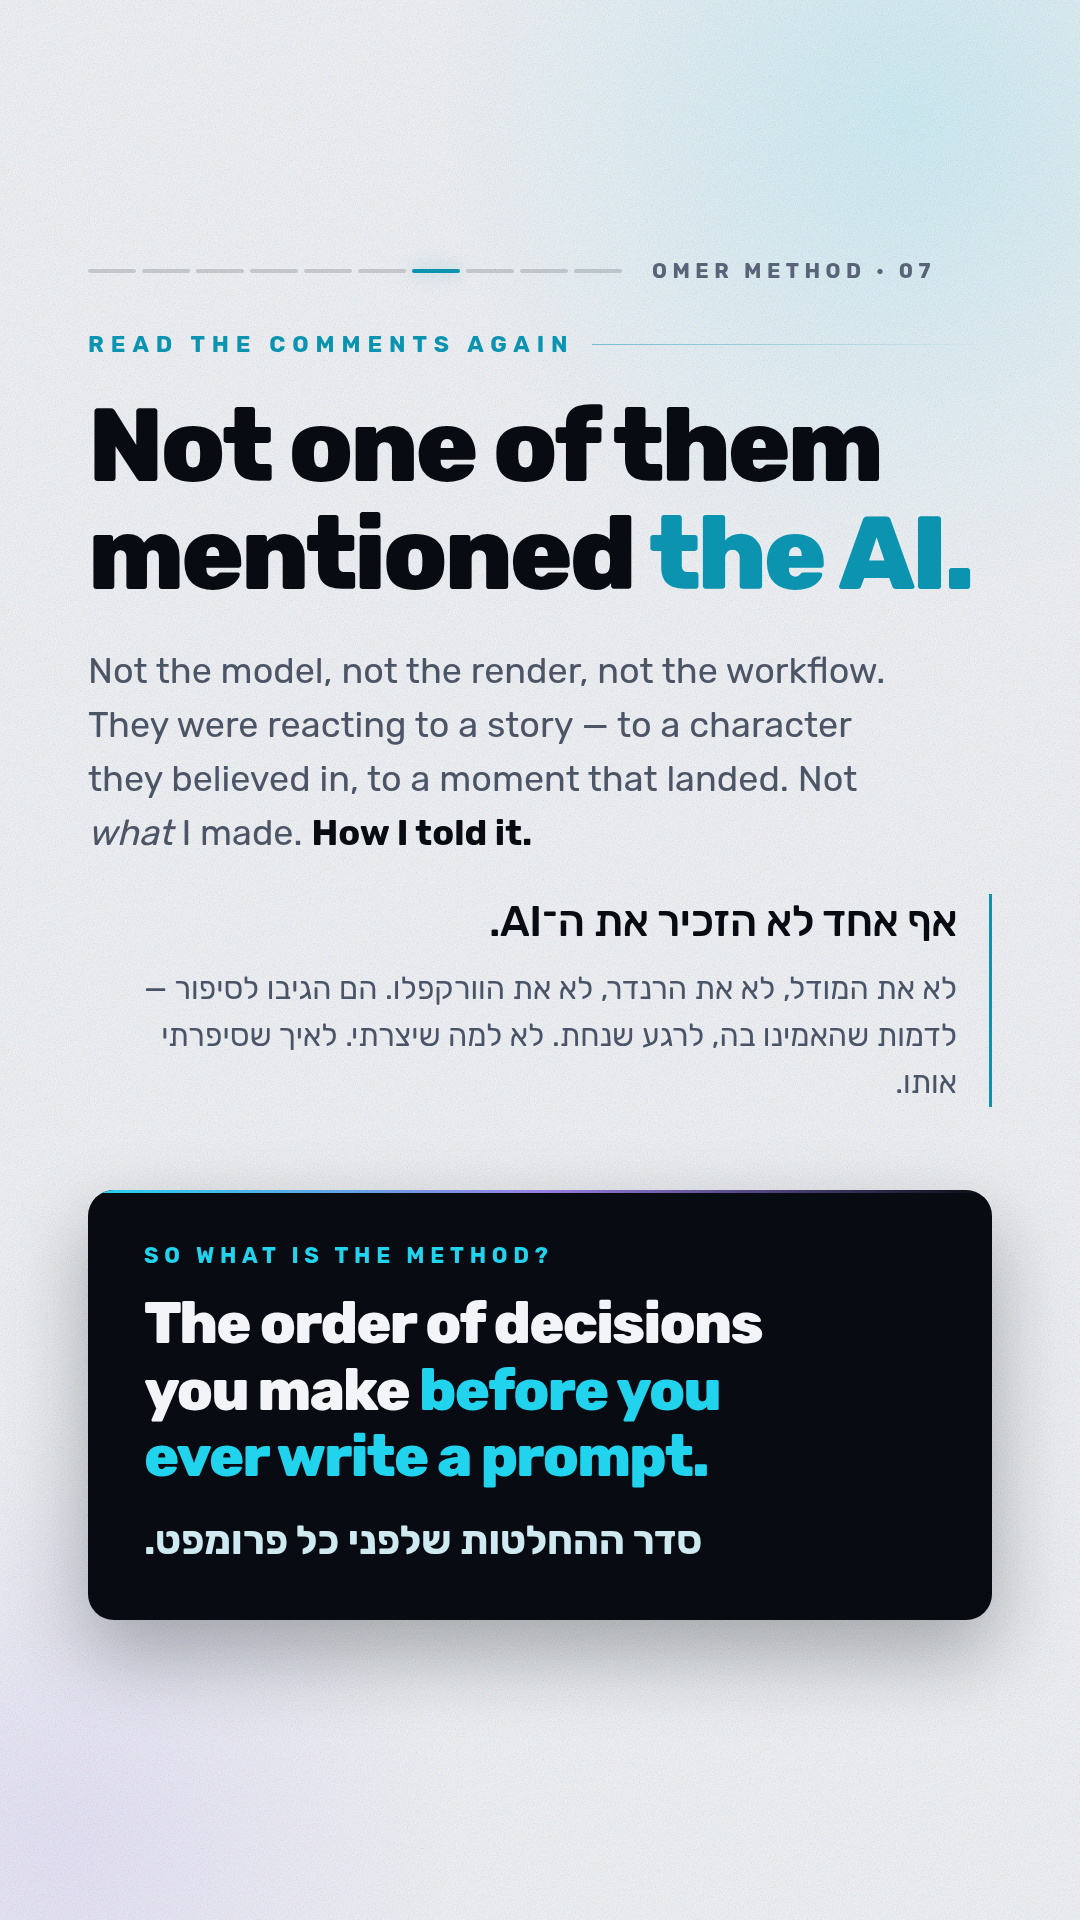
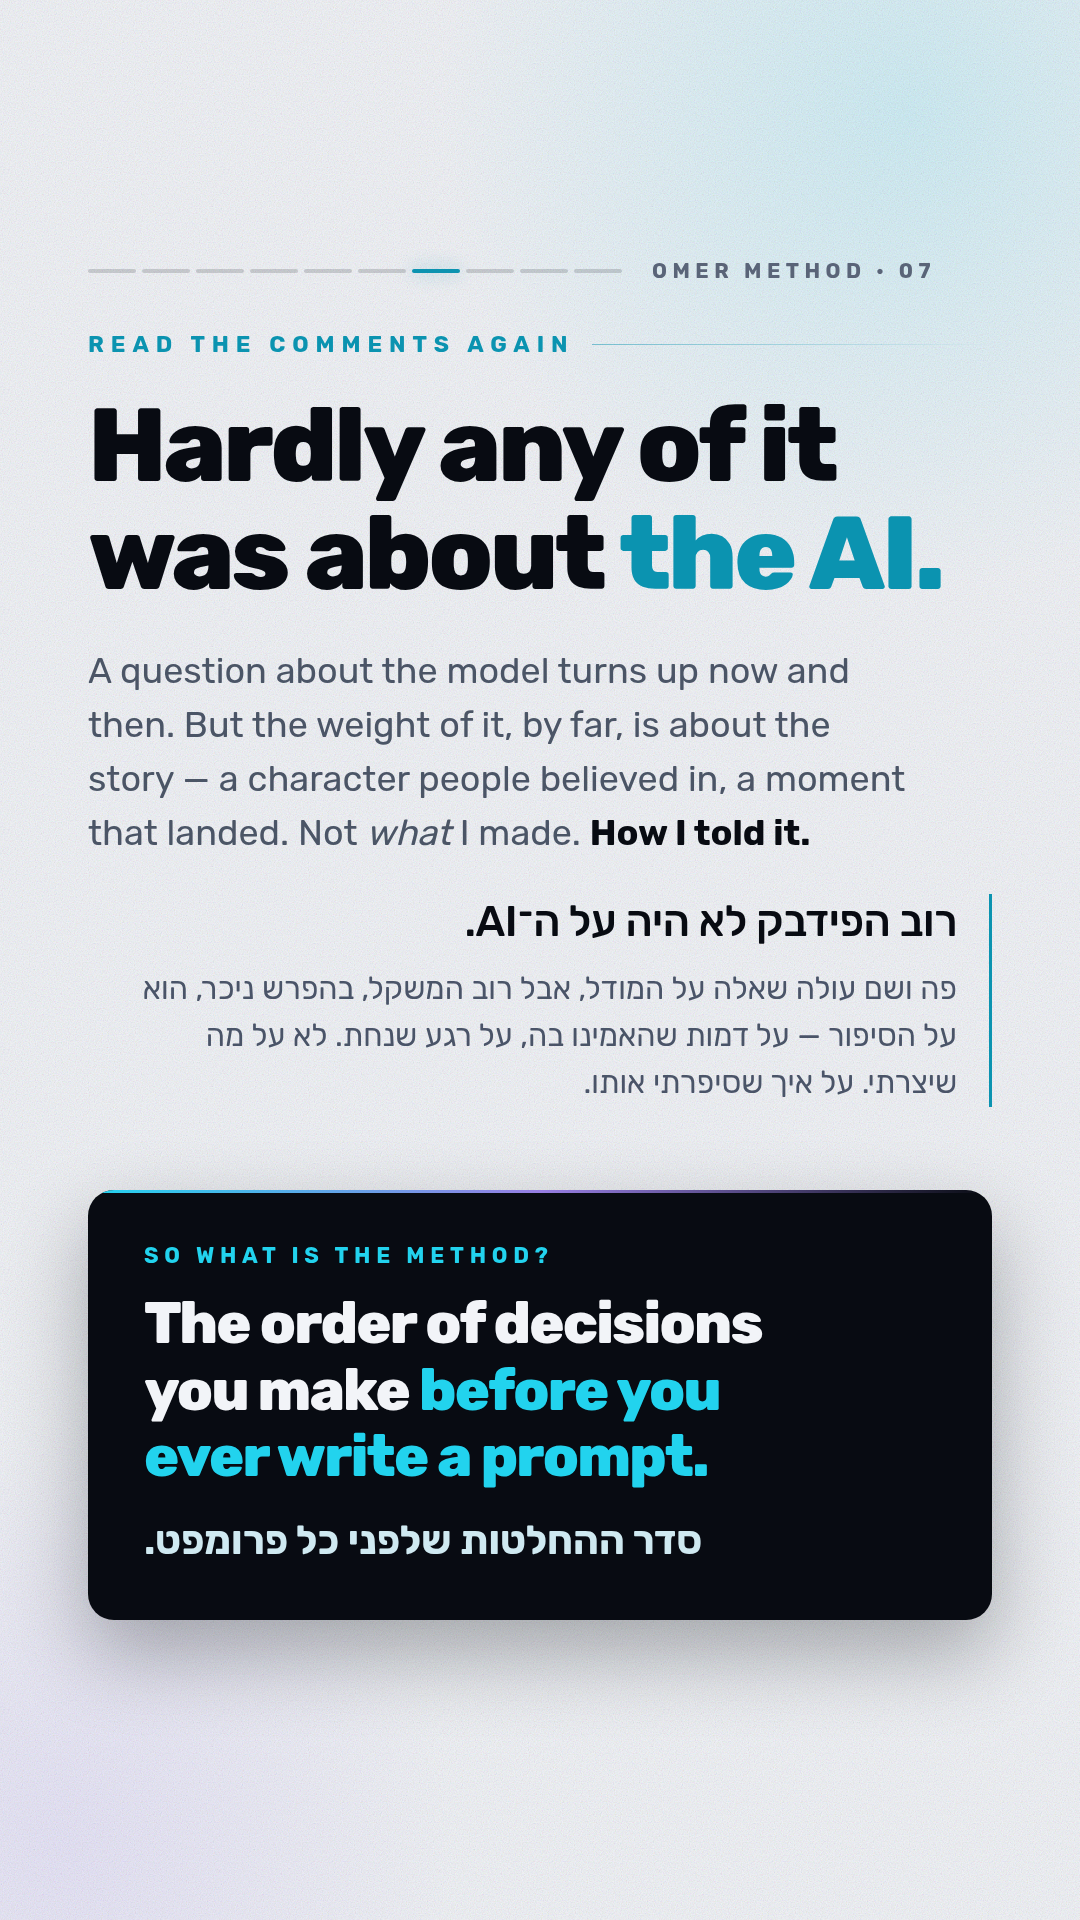
Replace the absolute claims with a proportion
The copy said nobody had ever asked which model and that not one comment
mentioned the AI. One screenshot of somebody asking would sink that, and
the claim was never the interesting one anyway.

What is actually true, and stronger: the weight of the response was on
the story rather than on the tools. The copy now says so as a proportion
across both the stories and the carousel — "hardly any of it", "a
rounding error", "now and then someone asks" — which is harder to argue
with and is what the comment evidence actually shows.

Story frame 05 stopped fitting once the longer wording went in; its lead
is back to two lines and the Hebrew deck is trimmed.

Claude-Session: https://claude.ai/code/session_0113ue75zsKk6knXSw8ei82D

Changed region(s): [[0.0611, 0.1875, 0.9167, 0.3125], [0.0917, 0.3438, 0.825, 0.4375], [0.1528, 0.4688, 0.8861, 0.5938]]

diff --git a/omer-method-launch/03-carousel/carousel.html b/omer-method-launch/03-carousel/carousel.html
@@ -161,11 +161,11 @@ body{background:#14171d;font-family:Rubik,sans-serif;-webkit-font-smoothing:anti
   <div class="pad">
     <div class="over">The question I keep getting</div>
     <div class="grow"></div>
-    <div class="en lead xl">Nobody asks<br>which tool.<br>They ask <span class="cy">how.</span></div>
-    <div class="deck" style="margin-top:30px">It took me a long time to hear the difference. Nobody has ever asked me which model or which software — they ask <b>how</b>. They can feel there is a way of thinking behind it. They just cannot name it.</div>
+    <div class="en lead xl">They rarely ask<br>which tool.<br>They ask <span class="cy">how.</span></div>
+    <div class="deck" style="margin-top:30px">It took me a long time to hear the difference. A question about software comes up now and then, but it is never where people stay — what they are really asking is <b>how</b>. They can feel there is a way of thinking behind it. They just cannot name it.</div>
     <div class="he-block" style="margin-top:30px">
-      <div class="he-line">לא שואלים באיזה כלי.<br>שואלים איך.</div>
-      <div class="he-deck">לקח לי הרבה זמן לשמוע את ההבדל. אף אחד לא שאל אותי באיזה מודל או באיזו תוכנה — שואלים <bdi>איך</bdi>. הם מרגישים שיש מאחורי זה דרך חשיבה. הם פשוט לא יודעים לקרוא לה בשם.</div>
+      <div class="he-line">כמעט לא שואלים באיזה כלי.<br>שואלים איך.</div>
+      <div class="he-deck">לקח לי הרבה זמן לשמוע את ההבדל. פה ושם עולה שאלה על תוכנה, אבל שם אף אחד לא נשאר — מה שבאמת שואלים זה <bdi>איך</bdi>. הם מרגישים שיש מאחורי זה דרך חשיבה, הם פשוט לא יודעים לקרוא לה בשם.</div>
     </div>
     <div class="grow"></div>
   </div>
@@ -219,8 +219,8 @@ body{background:#14171d;font-family:Rubik,sans-serif;-webkit-font-smoothing:anti
   <div class="grain"></div><div class="vig"></div>
   <div class="pad">
     <div class="over">The comments</div>
-    <div class="en lead sm" style="margin-top:24px">Thousands of them.<br><span class="cy">None about the tools.</span></div>
-    <div class="deck" style="margin-top:24px;font-size:30px">On videos made entirely with AI, nobody asked which model I used. They wrote about a character, a song, a country.</div>
+    <div class="en lead sm" style="margin-top:24px">Thousands of them.<br>Almost none about<br><span class="cy">the tools.</span></div>
+    <div class="deck" style="margin-top:24px;font-size:30px">Now and then someone asks about the model. But that is a rounding error next to the rest of it — people wrote about a character, a song, a country.</div>
     <div class="mon" style="margin-top:34px">
       <div class="big">889</div>
       <div><div class="a">likes</div><div class="b">on a single comment</div></div>
@@ -232,8 +232,8 @@ body{background:#14171d;font-family:Rubik,sans-serif;-webkit-font-smoothing:anti
     </div>
     <div class="grow" style="max-height:40px"></div>
     <div class="he-block">
-      <div class="he-line sm">אלפי תגובות. אף אחת על הכלים.</div>
-      <div class="he-deck">אף אחד לא שאל באיזה מודל השתמשתי. הם כתבו על דמות, על שיר, על מדינה.</div>
+      <div class="he-line sm">אלפי תגובות. כמעט אף אחת על הכלים.</div>
+      <div class="he-deck">פה ושם שואלים על המודל, אבל זה שוליים לעומת כל השאר — כתבו על דמות, על שיר, על מדינה.</div>
     </div>
   </div>
   <div class="num">05 / 09</div>
@@ -244,11 +244,11 @@ body{background:#14171d;font-family:Rubik,sans-serif;-webkit-font-smoothing:anti
   <div class="grain" style="opacity:.07"></div>
   <div class="pad">
     <div class="over">Read them again</div>
-    <div class="en lead" style="margin-top:26px">Not one of them<br>mentioned <span style="color:var(--cy-deep)">the AI.</span></div>
-    <div class="deck" style="margin-top:26px">Not the model, not the render, not the workflow. They were reacting to a story — to a character they believed in, to a moment that landed. Not <i>what</i> I made. <b>How I told it.</b></div>
+    <div class="en lead" style="margin-top:26px">Hardly any of it<br>was about <span style="color:var(--cy-deep)">the AI.</span></div>
+    <div class="deck" style="margin-top:26px">A question about the model turns up now and then. But the weight of it, by far, is about the story — a character people believed in, a moment that landed. Not <i>what</i> I made. <b>How I told it.</b></div>
     <div class="he-block" style="margin-top:26px">
-      <div class="he-line sm">אף אחד לא הזכיר את ה־<bdi>AI</bdi>.</div>
-      <div class="he-deck">לא את המודל, לא את הרנדר, לא את הוורקפלו. הם הגיבו לסיפור — לדמות שהאמינו בה, לרגע שנחת. לא למה שיצרתי. לאיך שסיפרתי אותו.</div>
+      <div class="he-line sm">רוב הפידבק לא היה על ה־<bdi>AI</bdi>.</div>
+      <div class="he-deck">פה ושם עולה שאלה על המודל, אבל רוב המשקל, בהפרש ניכר, הוא על הסיפור — על דמות שהאמינו בה, על רגע שנחת. לא על מה שיצרתי. על איך שסיפרתי אותו.</div>
     </div>
     <div class="grow"></div>
     <div class="card">

diff --git a/omer-method-launch/01-stories/frames.html b/omer-method-launch/01-stories/frames.html
@@ -488,10 +488,10 @@ body{background:#14171d;font-family:Rubik,sans-serif;-webkit-font-smoothing:anti
 
   <div class="pad">
     <div class="over">The comments</div>
-    <div class="lead md" style="margin-top:26px">Thousands of them.<br><span class="cy">None about the tools.</span></div>
-    <div class="deck" style="margin-top:28px;max-width:850px;font-size:34px">On videos made entirely with AI, nobody asked
-      which model I used. They wrote about a character, a song, a country. One comment picked up more
-      likes on its own than most posts get.</div>
+    <div class="lead md" style="margin-top:26px">Thousands of them.<br>Almost none <span class="cy">about the tools.</span></div>
+    <div class="deck" style="margin-top:28px;max-width:850px;font-size:34px">Now and then someone asks about the model. But that is a rounding error next to the rest of it —
+      people wrote about a character, a song, a country. One comment picked up more likes on its own
+      than most posts get.</div>
 
     <div class="mon" style="margin-top:40px">
       <div class="big">889</div>
@@ -504,8 +504,8 @@ body{background:#14171d;font-family:Rubik,sans-serif;-webkit-font-smoothing:anti
       <div><span class="n">934</span><span class="l">comments from Facebook alone</span></div>
     </div>
 
-    <div class="grow" style="max-height:120px"></div>
-    <div class="he-block" style="margin-top:34px"><div class="he-line sm">אלפי תגובות. אף אחת על הכלים.</div><div class="he-deck tight">על סרטונים שנוצרו כולם ב־<bdi>AI</bdi>, אף אחד לא שאל באיזה מודל השתמשתי. הם כתבו על דמות, על שיר, על מדינה. תגובה אחת אספה לבדה יותר לייקים ממה שרוב הפוסטים מקבלים.</div></div>
+    <div class="grow" style="max-height:52px"></div>
+    <div class="he-block" style="margin-top:26px"><div class="he-line sm">אלפי תגובות. כמעט אף אחת על הכלים.</div><div class="he-deck tight">פה ושם שואלים על המודל, אבל זה שוליים לעומת כל השאר — כתבו על דמות, על שיר, על מדינה.</div></div>
   </section>
 
 <!-- ══════════════════════ 06 · WALL OF ACTION ══════════════════════
@@ -542,11 +542,10 @@ body{background:#14171d;font-family:Rubik,sans-serif;-webkit-font-smoothing:anti
 
   <div class="pad">
     <div class="over">Read the comments again</div>
-    <div class="lead" style="margin-top:34px">Not one of them<br>mentioned <span class="cy">the AI.</span></div>
-    <div class="deck" style="margin-top:36px">Not the model, not the render, not the workflow. They were reacting to a
-      story — to a character they believed in, to a moment that landed. Not <em>what</em> I made.
+    <div class="lead" style="margin-top:34px">Hardly any of it<br>was about <span class="cy">the AI.</span></div>
+    <div class="deck" style="margin-top:36px">A question about the model turns up now and then. But the weight of it, by far, is about the story — a character people believed in, a moment that landed. Not <em>what</em> I made.
       <b>How I told it.</b></div>
-    <div class="he-block" style="margin-top:34px"><div class="he-line sm">אף אחד לא הזכיר את ה־<bdi>AI</bdi>.</div><div class="he-deck">לא את המודל, לא את הרנדר, לא את הוורקפלו. הם הגיבו לסיפור — לדמות שהאמינו בה, לרגע שנחת. לא למה שיצרתי. לאיך שסיפרתי אותו.</div></div>
+    <div class="he-block" style="margin-top:34px"><div class="he-line sm">רוב הפידבק לא היה על ה־<bdi>AI</bdi>.</div><div class="he-deck">פה ושם עולה שאלה על המודל, אבל רוב המשקל, בהפרש ניכר, הוא על הסיפור — על דמות שהאמינו בה, על רגע שנחת. לא על מה שיצרתי. על איך שסיפרתי אותו.</div></div>
     <div class="grow"></div>
     <div class="payload">
       <div class="q">So what is the method?</div>

diff --git a/omer-method-launch/03-carousel/caption.md b/omer-method-launch/03-carousel/caption.md
@@ -9,13 +9,13 @@ stopped.
 ## Caption
 
 ```
-In three years of making things with AI, not one person has ever asked me which model I used.
+In three years of making things with AI, hardly any of the feedback has been about the AI.
 
-They ask how. It took me a long time to hear the difference.
+People ask how. It took me a long time to hear the difference.
 
 I built Monica, an AI singer who does not exist. People kept asking where they could hear her song, until I put it on Spotify and a song by someone who isn't real became a real song. I built Only in Israel, a sitcom made entirely with AI that passed a million views, where the audience argues about the building's rules as if the building existed. I built BRIEF 24 using the very method it depicts, which means I ran it on myself before I ever sold it.
 
-Thousands of comments across all of it, in four languages. Not one of them asked which model I used. They wrote about a character, a song, a country. One comment picked up 889 likes on its own.
+Thousands of comments across all of it, in four languages. A question about the model turns up now and then, but it is a rounding error — people wrote about a character, a song, a country. One comment picked up 889 likes on its own.
 
 That is the whole thing. The AI was never the interesting part — the how was.
 
@@ -29,13 +29,13 @@ Link in bio → omermethod.com
 
 —
 
-בשלוש שנים של יצירה עם AI, אף אחד מעולם לא שאל אותי באיזה מודל השתמשתי.
+בשלוש שנים של יצירה עם AI, כמעט כל הפידבק שקיבלתי לא היה על ה-AI.
 
 שואלים איך. לקח לי הרבה זמן לשמוע את ההבדל.
 
 בניתי את מוניקה, זמרת AI שלא קיימת. אנשים ביקשו לשמוע את השיר שלה עד שהעליתי אותו לספוטיפיי — ושיר של מישהי שלא קיימת הפך לשיר אמיתי. בניתי את Only in Israel, סיטקום שנוצר כולו ב-AI ועבר מיליון צפיות, שבו הקהל מתווכח על חוקי הבניין כאילו הבניין קיים. ובניתי את BRIEF 24 בדיוק בשיטה שהיא מתארת — כלומר הפעלתי אותה על עצמי לפני שמכרתי אותה.
 
-אלפי תגובות, בארבע שפות. אף אחת מהן לא שאלה באיזה מודל השתמשתי. הם כתבו על דמות, על שיר, על מדינה. תגובה אחת אספה לבדה 889 לייקים.
+אלפי תגובות, בארבע שפות. פה ושם עולה שאלה על המודל, אבל זה שוליים — כתבו על דמות, על שיר, על מדינה. תגובה אחת אספה לבדה 889 לייקים.
 
 זה כל הסיפור. ה-AI מעולם לא היה החלק המעניין — ה"איך" היה.
 
@@ -74,8 +74,13 @@ follow or leave. That reader has already chosen to engage, so length costs
 nothing and substance earns the follow.
 
 The hook still has to survive the 125-character truncation, which is why the
-"nobody ever asked which model" line opens it and the turn lands immediately
-after.
+line about the feedback opens it and the turn lands immediately after.
+
+**No absolutes.** An earlier pass claimed nobody had *ever* asked which model.
+One screenshot of someone asking would sink the whole argument, and the real
+claim is stronger anyway: the weight of the response was never on the tools, it
+was on the story. "Hardly any", "a rounding error", "now and then" — a
+proportion is harder to argue with than an absolute, and it happens to be true.
 
 The carousel and the caption now run the same thread: people ask **how**, and
 the how is the order of decisions. Slide 02 sets it up, slide 06 answers it.

diff --git a/omer-method-launch/01-stories/design-system.md b/omer-method-launch/01-stories/design-system.md
@@ -201,3 +201,15 @@ of one repeated word). Both are honest about being design.
 
 **No prices in the sequence.** The close names the scope — five guides, permanent
 access — and sends people to the site. Pricing is the landing page's job.
+
+## No absolutes in the claims
+
+An earlier pass said nobody had *ever* asked which model, and that not one
+comment mentioned the AI. One screenshot of somebody asking would sink the whole
+argument — and the real claim is stronger anyway.
+
+The point was never that the question is never asked. It is that **the weight of
+the response was on the story, not on the tools**. So the copy states a
+proportion: "hardly any of it", "a rounding error", "now and then someone asks".
+A proportion is harder to argue with than an absolute, and it happens to be
+exactly what the comment evidence shows.
